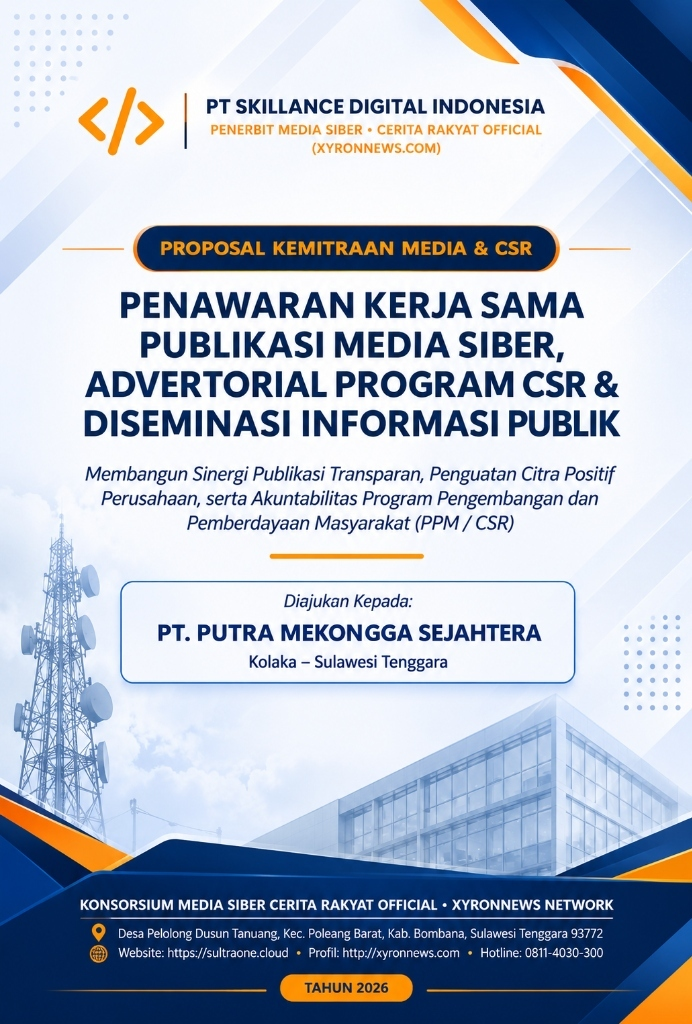
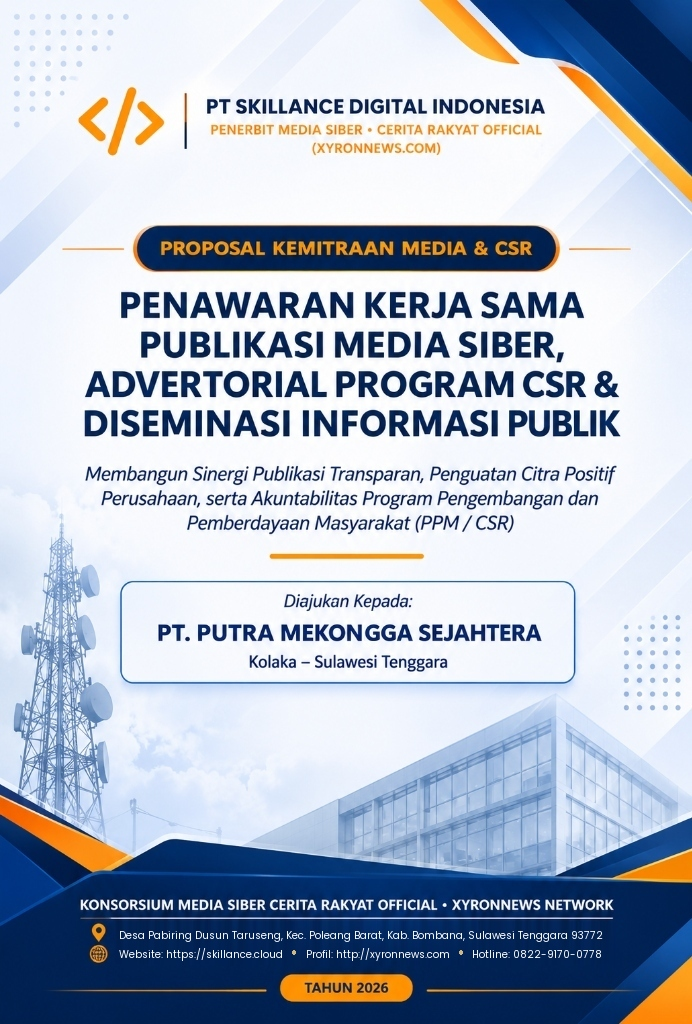
fix(proposal): update footer contact details (phone 082291700778, Desa Pabiring, skillance.cloud)

Changed region(s): [[0.1517, 0.9062, 0.8801, 0.9375]]

diff --git a/Proposal_Kemitraan_Media_PT_Putra_Mekongga_Sejahtera.html b/Proposal_Kemitraan_Media_PT_Putra_Mekongga_Sejahtera.html
@@ -616,7 +616,7 @@
           <h1 class="kop-title-main">PT SKILLANCE DIGITAL INDONESIA</h1>
           <div class="kop-sub">PENERBIT MEDIA SIBER &bull; CERITA RAKYAT OFFICIAL (WWW.XYRONNEWS.COM)</div>
           <p class="meta">Alamat Kantor: Desa Pabiring Dusun Taruseng, Kec. Poleang Barat, Kab. Bombana, Sulawesi Tenggara 93772</p>
-          <p class="meta">Website: https://skillance.cloud &bull; Surel: redaksi@xyronnews.com &bull; Hotline/Redaksi: 0811-4030-800</p>
+          <p class="meta">Website: https://skillance.cloud &bull; Surel: redaksi@xyronnews.com &bull; Hotline/Redaksi: 0822-9170-0778</p>
         </div>
         <div class="kop-spacer"></div>
       </div>
@@ -679,7 +679,7 @@
           <h1 class="kop-title-main">PT SKILLANCE DIGITAL INDONESIA</h1>
           <div class="kop-sub">PENERBIT MEDIA SIBER &bull; CERITA RAKYAT OFFICIAL (WWW.XYRONNEWS.COM)</div>
           <p class="meta">Alamat Kantor: Desa Pabiring Dusun Taruseng, Kec. Poleang Barat, Kab. Bombana, Sulawesi Tenggara 93772</p>
-          <p class="meta">Website: https://skillance.cloud &bull; Surel: redaksi@xyronnews.com &bull; Hotline/Redaksi: 0811-4030-800</p>
+          <p class="meta">Website: https://skillance.cloud &bull; Surel: redaksi@xyronnews.com &bull; Hotline/Redaksi: 0822-9170-0778</p>
         </div>
         <div class="kop-spacer"></div>
       </div>
@@ -743,7 +743,7 @@
           <h1 class="kop-title-main">PT SKILLANCE DIGITAL INDONESIA</h1>
           <div class="kop-sub">PENERBIT MEDIA SIBER &bull; CERITA RAKYAT OFFICIAL (WWW.XYRONNEWS.COM)</div>
           <p class="meta">Alamat Kantor: Desa Pabiring Dusun Taruseng, Kec. Poleang Barat, Kab. Bombana, Sulawesi Tenggara 93772</p>
-          <p class="meta">Website: https://skillance.cloud &bull; Surel: redaksi@xyronnews.com &bull; Hotline/Redaksi: 0811-4030-800</p>
+          <p class="meta">Website: https://skillance.cloud &bull; Surel: redaksi@xyronnews.com &bull; Hotline/Redaksi: 0822-9170-0778</p>
         </div>
         <div class="kop-spacer"></div>
       </div>
@@ -839,7 +839,7 @@
           <h1 class="kop-title-main">PT SKILLANCE DIGITAL INDONESIA</h1>
           <div class="kop-sub">PENERBIT MEDIA SIBER &bull; CERITA RAKYAT OFFICIAL (WWW.XYRONNEWS.COM)</div>
           <p class="meta">Alamat Kantor: Desa Pabiring Dusun Taruseng, Kec. Poleang Barat, Kab. Bombana, Sulawesi Tenggara 93772</p>
-          <p class="meta">Website: https://skillance.cloud &bull; Surel: redaksi@xyronnews.com &bull; Hotline/Redaksi: 0811-4030-800</p>
+          <p class="meta">Website: https://skillance.cloud &bull; Surel: redaksi@xyronnews.com &bull; Hotline/Redaksi: 0822-9170-0778</p>
         </div>
         <div class="kop-spacer"></div>
       </div>

diff --git a/Amplop_Surat_PT_Putra_Mekongga_Sejahtera.html b/Amplop_Surat_PT_Putra_Mekongga_Sejahtera.html
@@ -363,7 +363,7 @@
         <div class="envelope-sender">
           <div class="sender-title" contenteditable="true">PT SKILLANCE DIGITAL INDONESIA</div>
           <div class="sender-sub" contenteditable="true">PENERBIT MEDIA SIBER &bull; CERITA RAKYAT OFFICIAL (WWW.XYRONNEWS.COM)</div>
-          <div class="sender-meta" contenteditable="true">Desa Pabiring Dusun Taruseng, Kec. Poleang Barat, Kab. Bombana, Sultra 93772 &bull; Telp/WA: 0811-4030-800</div>
+          <div class="sender-meta" contenteditable="true">Desa Pabiring Dusun Taruseng, Kec. Poleang Barat, Kab. Bombana, Sultra 93772 &bull; Telp/WA: 0822-9170-0778</div>
         </div>
       </div>
       

diff --git a/Surat_Pengantar_Media_PT_Putra_Mekongga_Sejahtera.html b/Surat_Pengantar_Media_PT_Putra_Mekongga_Sejahtera.html
@@ -422,7 +422,7 @@
         <h1 class="kop-title-main">PT SKILLANCE DIGITAL INDONESIA</h1>
         <div class="kop-sub">PENERBIT MEDIA SIBER &bull; CERITA RAKYAT OFFICIAL (WWW.XYRONNEWS.COM)</div>
         <p class="meta">Alamat Kantor: Desa Pabiring Dusun Taruseng, Kec. Poleang Barat, Kab. Bombana, Sulawesi Tenggara 93772</p>
-        <p class="meta">Website: https://skillance.cloud &bull; Surel: redaksi@xyronnews.com &bull; Hotline/Redaksi: 0811-4030-800</p>
+        <p class="meta">Website: https://skillance.cloud &bull; Surel: redaksi@xyronnews.com &bull; Hotline/Redaksi: 0822-9170-0778</p>
       </div>
       <div class="kop-spacer"></div>
     </div>
